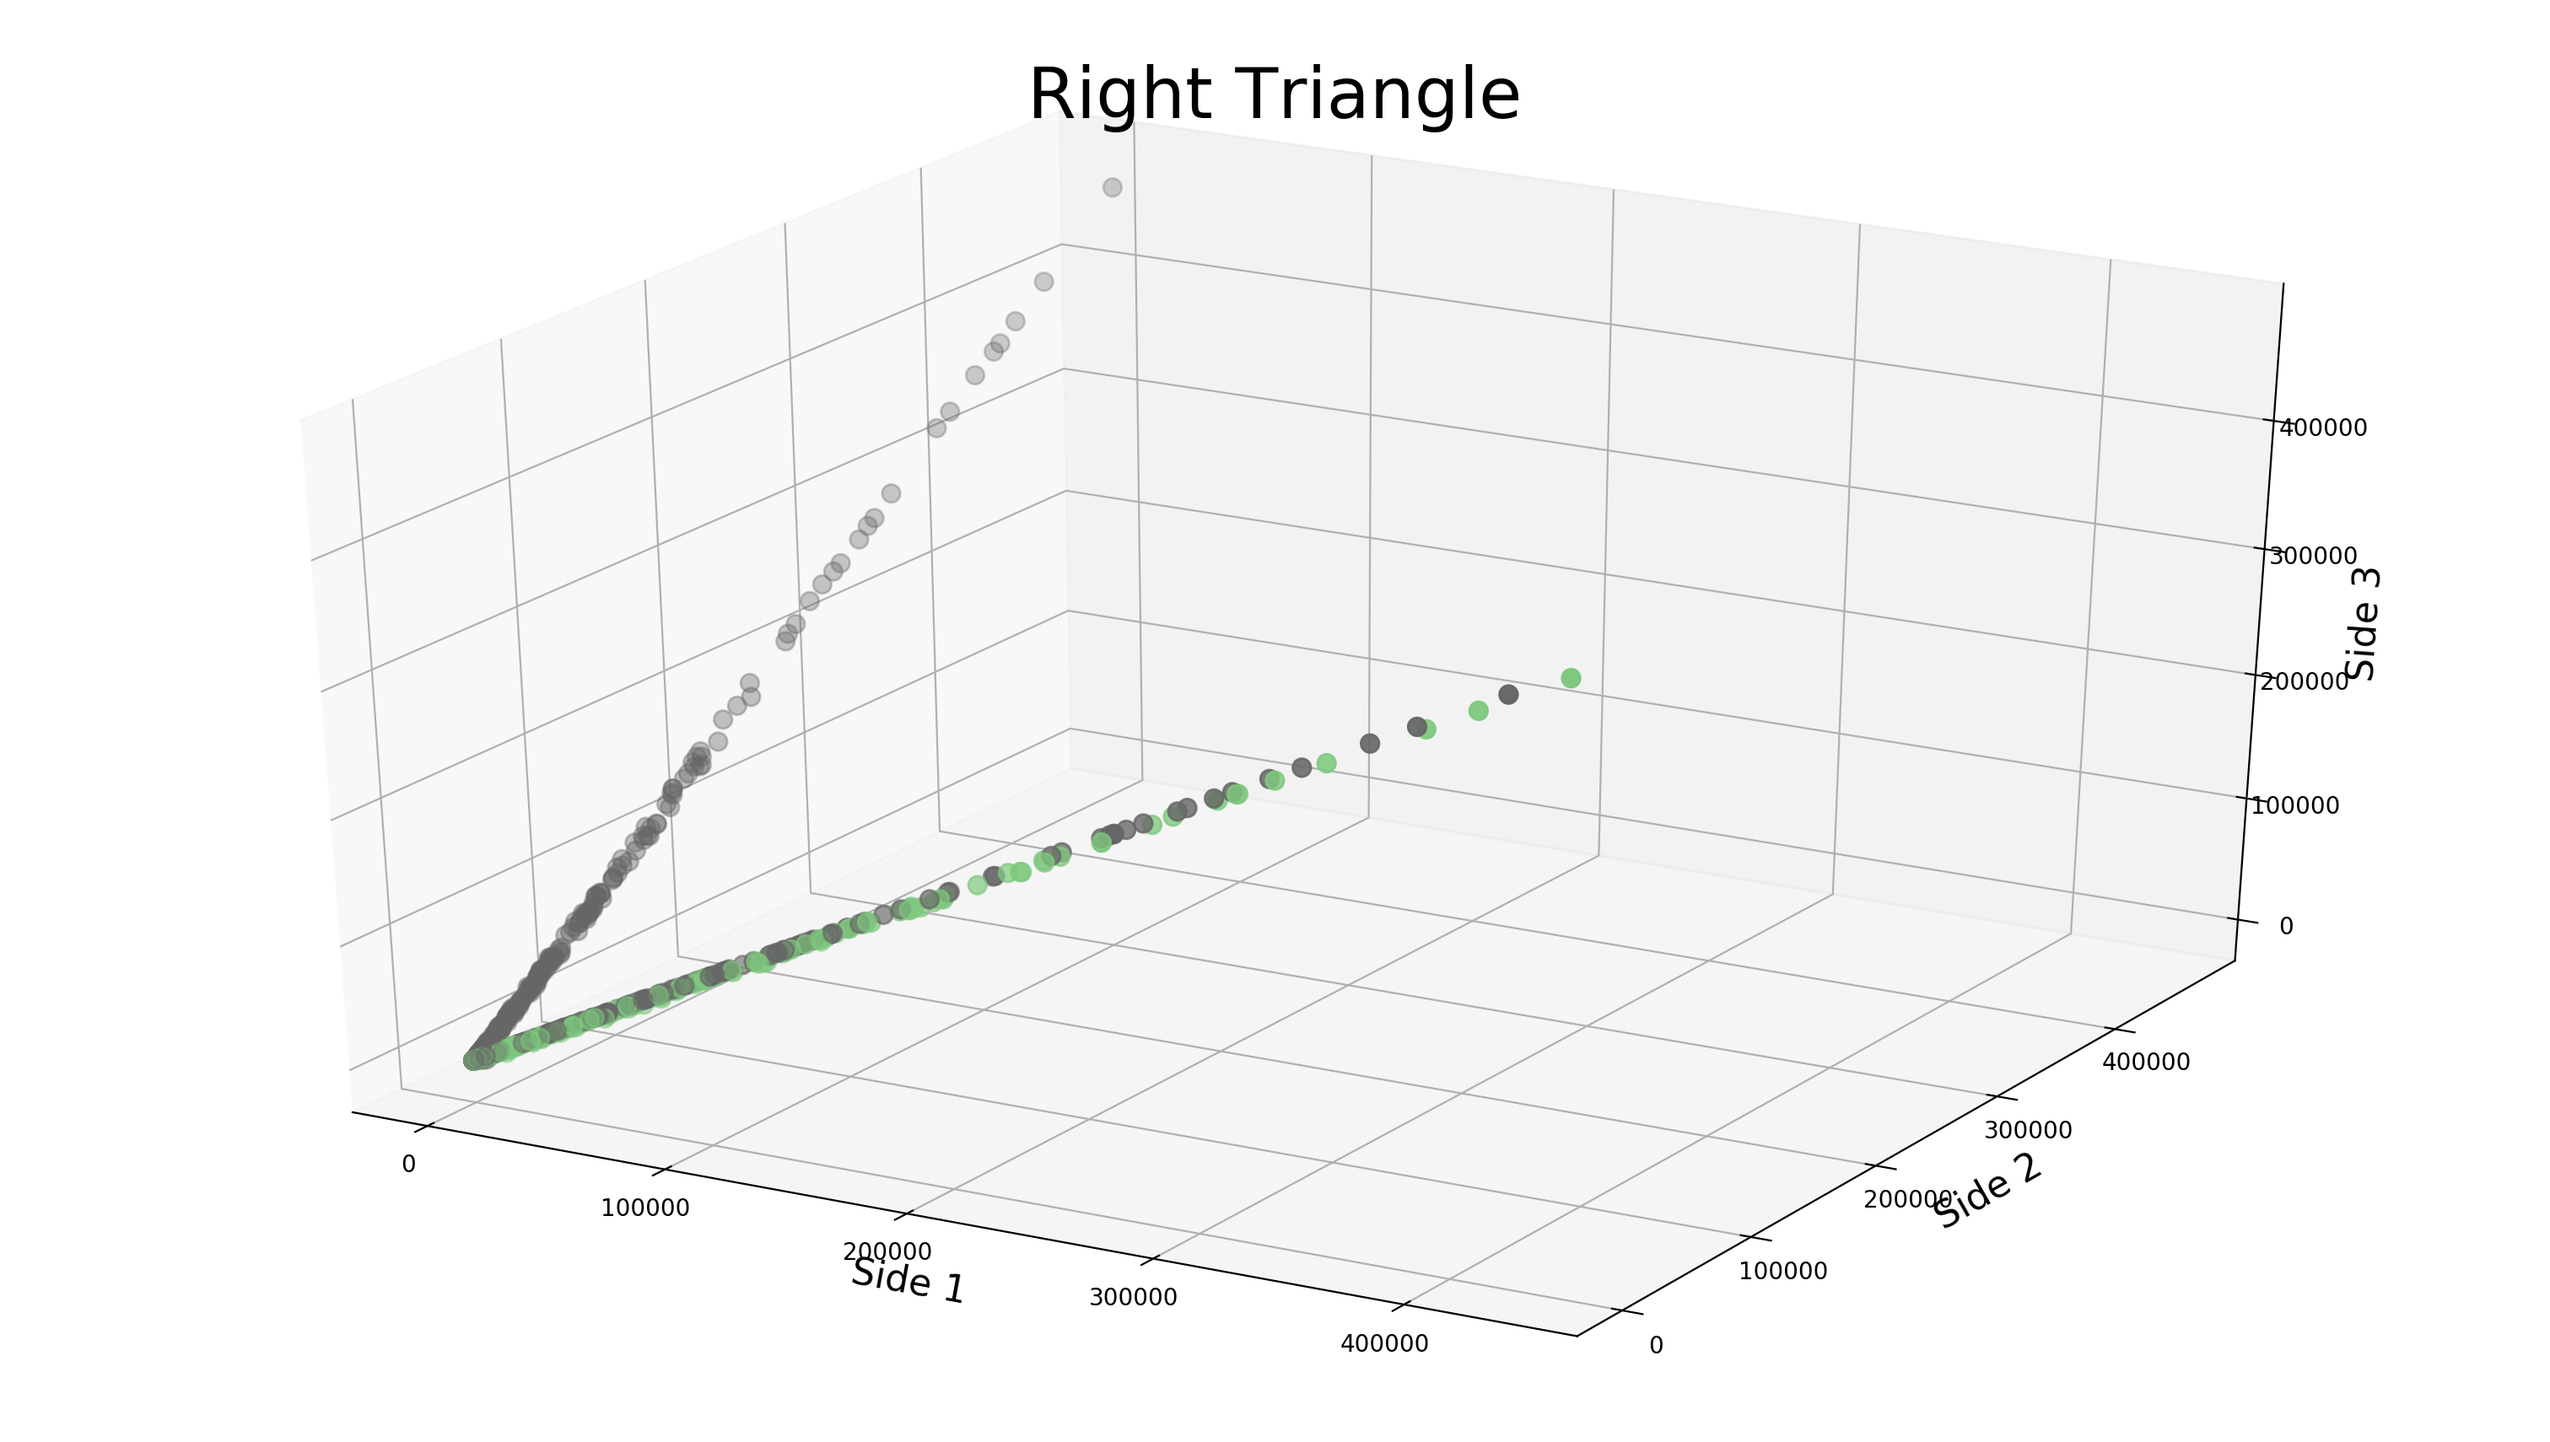
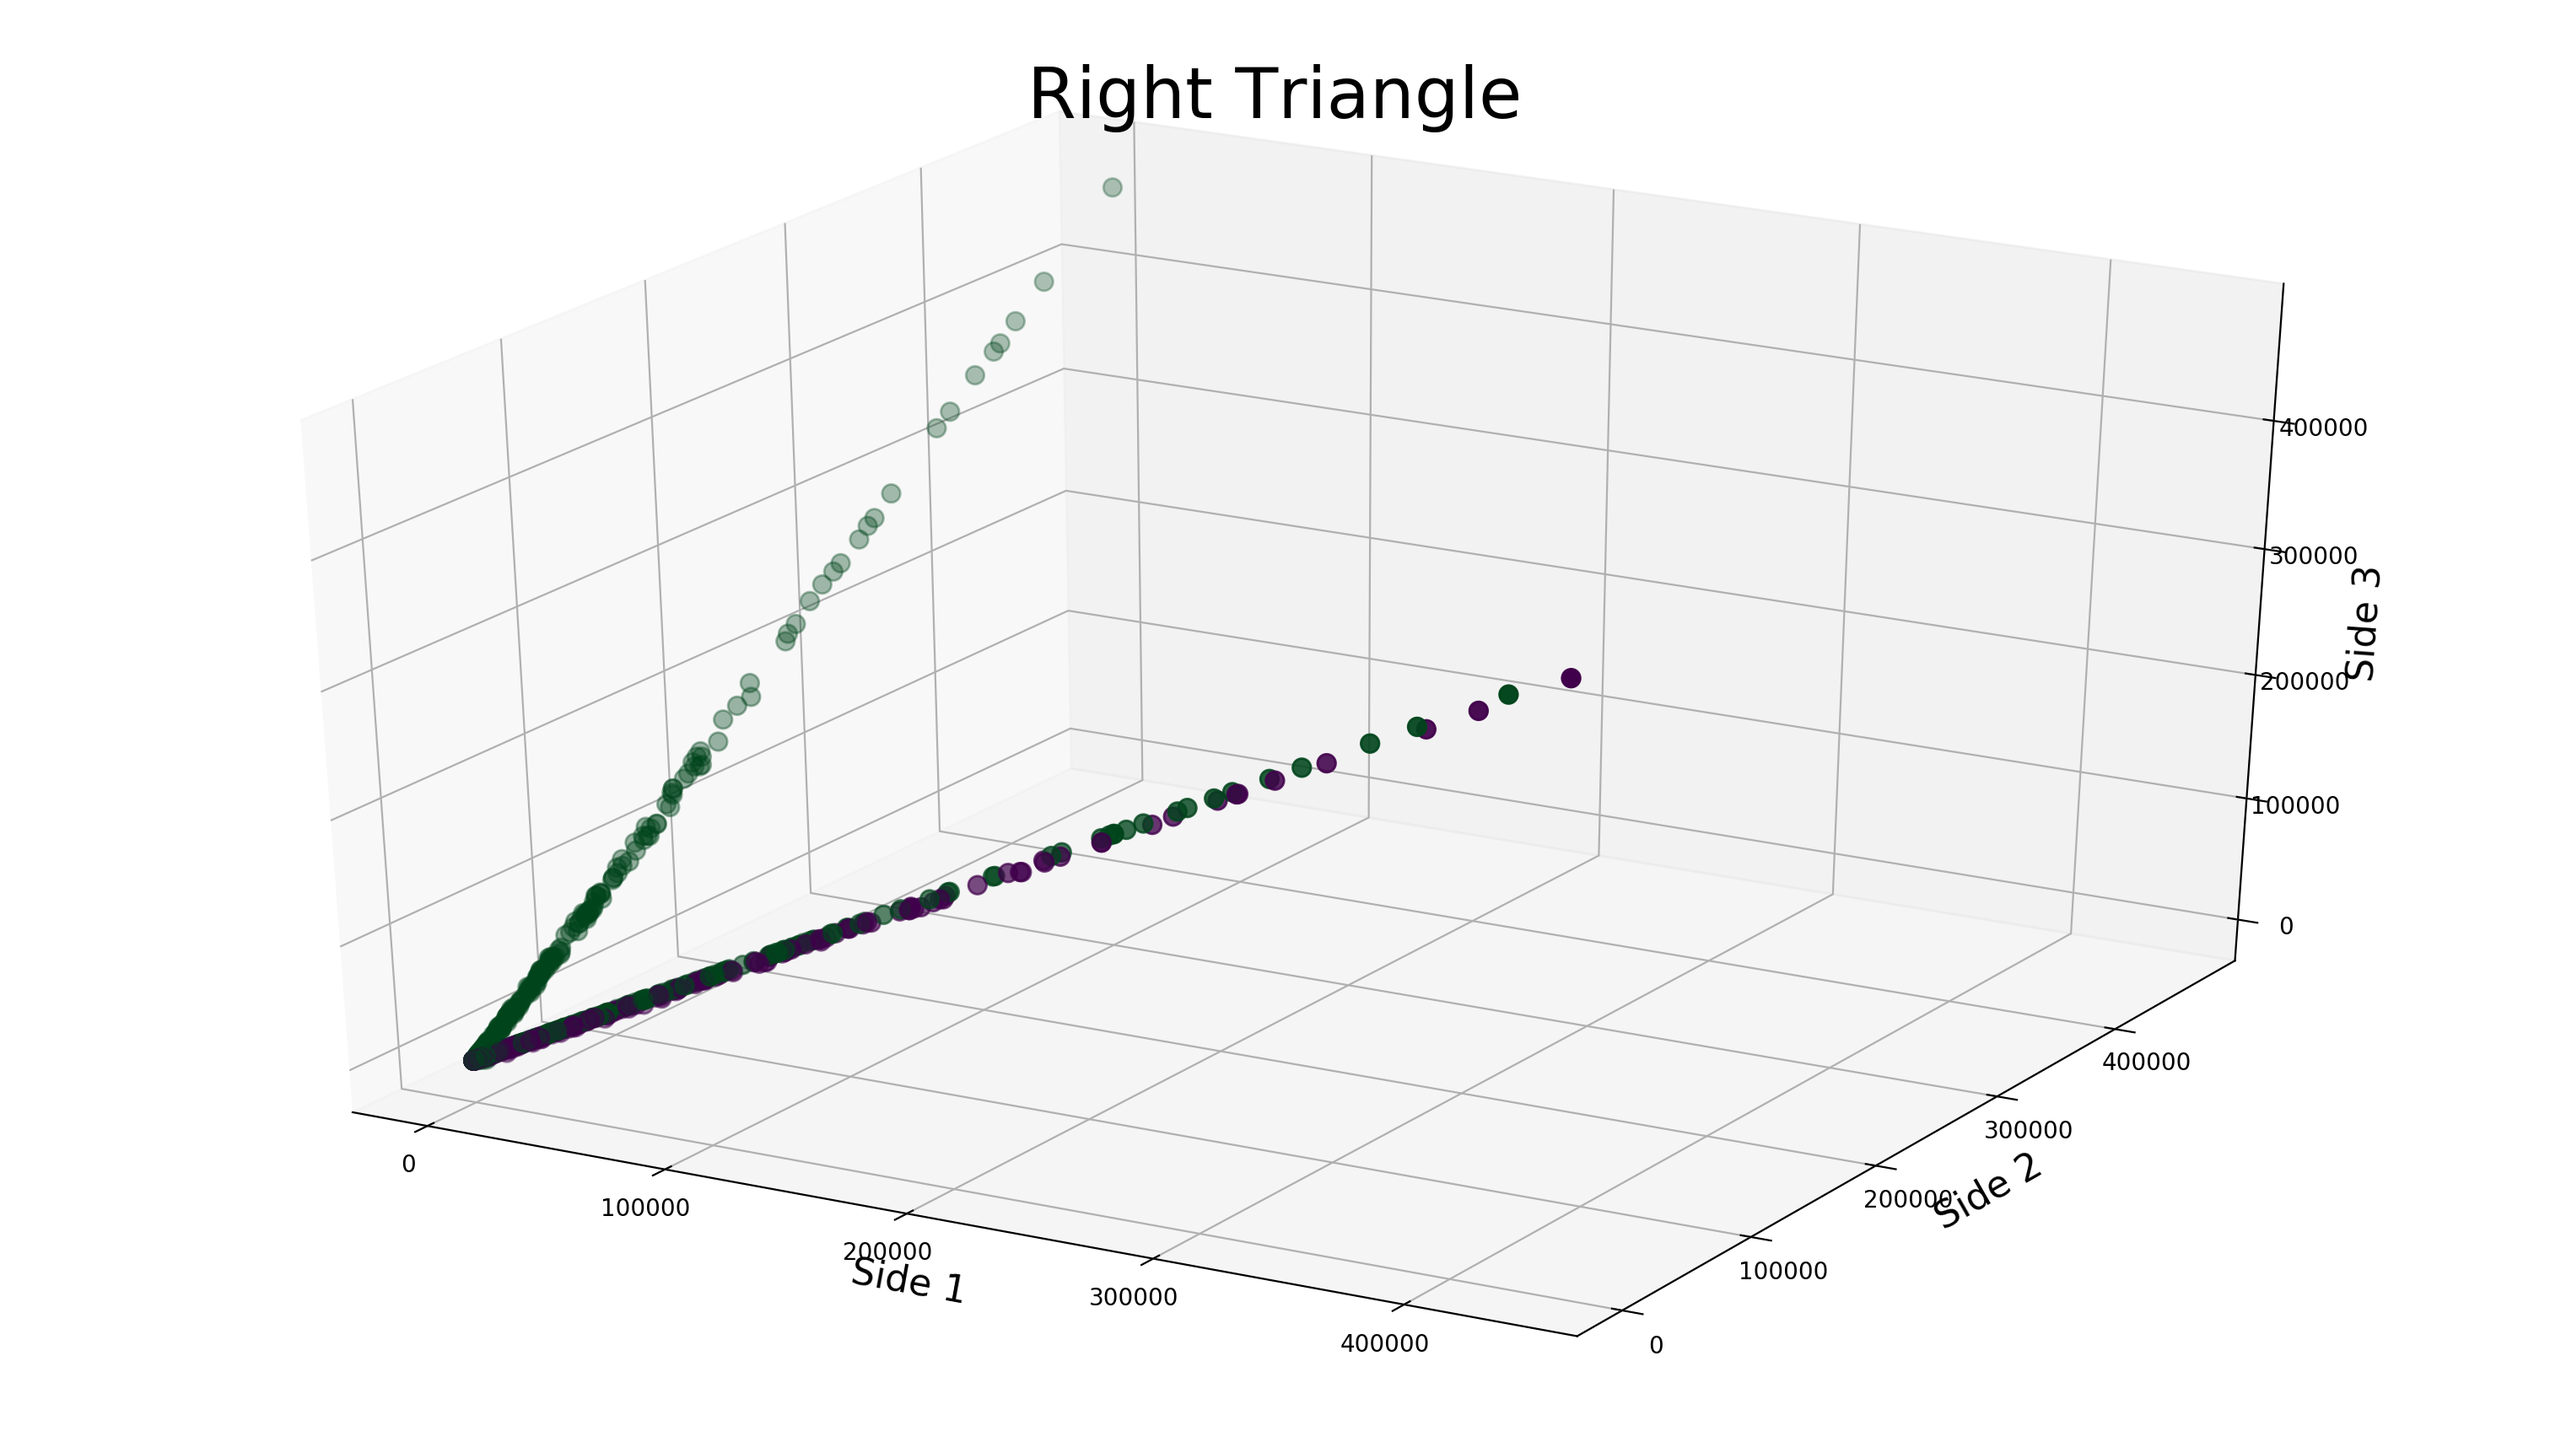
Changed the colors in the plot

diff --git a/plot_dataset_3d.py b/plot_dataset_3d.py
@@ -69,7 +69,7 @@ for count, T_FILES in enumerate(DATASET_T_FILES):
             x, y, z,
             c=DF['validity'],
             s=60,
-            cmap='Accent'
+            cmap='PRGn'
         )
         THREEDEE.set_title(title, fontsize=30)
         THREEDEE.set_xlabel(l1, fontsize=16)
@@ -119,7 +119,7 @@ for count, RT_FILES in enumerate(DATASET_RT_FILES):
             x, y, z,
             c=DF['validity'],
             s=60,
-            cmap='Accent'
+            cmap='PRGn'
         )
         THREEDEE.set_title(title, fontsize=30)
         THREEDEE.set_xlabel(l1, fontsize=16)
